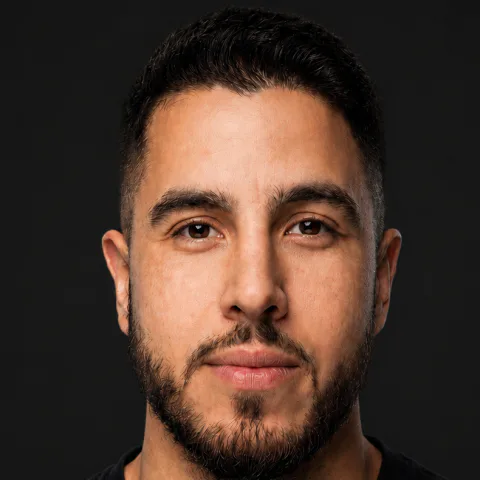
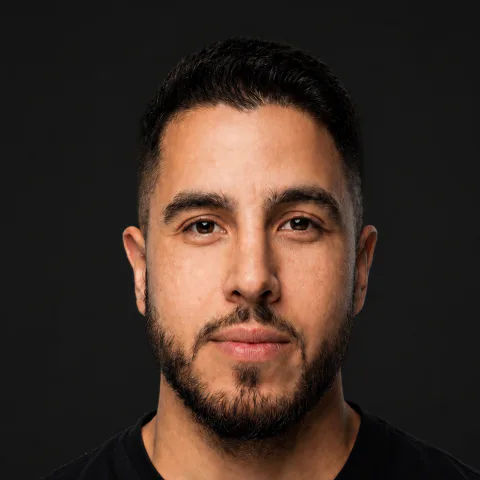
Update profile links and deployment setup

Changed region(s): [[0.1875, 0.0938, 0.8438, 1.0], [0.6875, 0.1562, 0.7188, 0.1875], [0.5625, 0.0938, 0.5938, 0.125]]

diff --git a/src/styles/global.css b/src/styles/global.css
@@ -94,7 +94,7 @@
     margin-inline: auto;
     flex-direction: column;
     gap: clamp(2rem, 7vw, 3rem);
-    padding: var(--gutter);
+    padding: clamp(1.5rem, 6vw, 2rem) var(--gutter) var(--gutter);
   }
 
   .appearance-controls {
@@ -103,6 +103,10 @@
     align-items: center;
     justify-content: flex-end;
     gap: 0.5rem;
+  }
+
+  .appearance-controls[hidden] {
+    display: none;
   }
 
   .theme-toggle {
@@ -140,6 +144,18 @@
     text-align: start;
   }
 
+  .profile-intro {
+    display: grid;
+    inline-size: 100%;
+    grid-template-columns: auto minmax(0, 1fr);
+    align-items: center;
+    gap: clamp(0.875rem, 4vw, 1.25rem);
+  }
+
+  .profile-identity {
+    min-inline-size: 0;
+  }
+
   .profile-portrait {
     inline-size: clamp(6rem, 27vw, 7rem);
     aspect-ratio: 1;
@@ -161,16 +177,23 @@
   }
 
   .profile-header h1 {
-    margin-block-start: 0.4rem;
-    font-size: clamp(1.75rem, 7vw, 2.125rem);
+    font-size: clamp(1.5rem, 7vw, 2.125rem);
     font-weight: 680;
     line-height: 1.05;
     letter-spacing: -0.045em;
   }
 
-  .profile-bio {
+  .profile-headline {
     max-inline-size: 34ch;
-    margin-block-start: 0.75rem;
+    margin-block-start: 0.5rem;
+    color: var(--color-text-muted);
+    font-weight: 400;
+    line-height: 1.45;
+  }
+
+  .profile-bio {
+    inline-size: 100%;
+    margin-block-start: 1rem;
     color: var(--color-text-muted);
   }
 
@@ -179,7 +202,7 @@
   }
 
   .profile-path {
-    margin-block-start: 1rem;
+    margin-block-end: 0.5rem;
     color: var(--color-text-muted);
     font-size: 0.75rem;
   }
@@ -227,6 +250,7 @@
 
   .primary-link {
     display: flex;
+    inline-size: 100%;
     min-block-size: 3.375rem;
     align-items: center;
     justify-content: space-between;
@@ -234,8 +258,11 @@
     border: var(--line-width) solid var(--color-border);
     gap: 0.75rem;
     font-weight: 500;
+    text-align: start;
     text-decoration: none;
     text-transform: lowercase;
+    background: transparent;
+    cursor: pointer;
     transition:
       color 140ms ease,
       background-color 140ms ease,
@@ -284,6 +311,56 @@
     font-size: 0.6875rem;
     text-align: start;
   }
+
+  .unavailable-dialog {
+    inline-size: min(calc(100% - 2rem), 28rem);
+    padding: 0;
+    border: var(--line-width) solid var(--color-border);
+    border-radius: 0;
+    color: var(--color-text);
+    background: var(--color-background);
+  }
+
+  .unavailable-dialog::backdrop {
+    background: rgb(0 0 0 / 72%);
+  }
+
+  .unavailable-dialog__content {
+    display: flex;
+    flex-direction: column;
+    align-items: flex-start;
+    gap: 1rem;
+    padding: clamp(1.25rem, 5vw, 2rem);
+  }
+
+  .unavailable-dialog__status {
+    color: var(--color-text-muted);
+    font-size: 0.6875rem;
+  }
+
+  .unavailable-dialog h2 {
+    font-size: clamp(1.375rem, 6vw, 1.75rem);
+    line-height: 1.1;
+    letter-spacing: -0.035em;
+  }
+
+  .unavailable-dialog__content > p:not(.unavailable-dialog__status) {
+    color: var(--color-text-muted);
+  }
+
+  .unavailable-dialog__close {
+    min-block-size: 2.75rem;
+    padding-inline: 1rem;
+    border: var(--line-width) solid var(--color-text);
+    color: var(--color-background);
+    background: var(--color-text);
+    cursor: pointer;
+  }
+
+  .unavailable-dialog__close:hover {
+    color: var(--color-text);
+    background: var(--color-background);
+  }
 }
 
 @layer utilities {
@@ -302,7 +379,7 @@
 
 @media (min-width: 48rem) {
   .profile-page {
-    padding: 2rem 1.5rem;
+    padding: 2.5rem 1.5rem 2rem;
     border-inline: var(--line-width) solid var(--color-border);
   }
 }

diff --git a/src/config/profile.ts b/src/config/profile.ts
@@ -25,11 +25,12 @@ export interface SocialLink {
 export interface PrimaryLink {
   id: string;
   label: string;
-  href: string;
+  href?: string;
 }
 
 export interface Profile {
   name: string;
+  headline: string;
   email: string;
   bio: string;
   image: ProfileImage;
@@ -37,15 +38,16 @@ export interface Profile {
   links: readonly PrimaryLink[];
 }
 
-const placeholderEmail = 'alfredjiali@gmail.com';
+const email = 'alfredjiali@gmail.com';
 const linkedinIcon = {
   path: 'M20.447 20.452h-3.554v-5.569c0-1.328-.027-3.037-1.852-3.037-1.853 0-2.136 1.445-2.136 2.941v5.665H9.351V9h3.414v1.561h.048c.477-.9 1.637-1.85 3.37-1.85 3.601 0 4.267 2.37 4.267 5.455v6.286zM5.337 7.433a2.062 2.062 0 1 1 0-4.124 2.062 2.062 0 0 1 0 4.124zM3.555 20.452h3.555V9H3.555z',
 };
 
 export const profile: Profile = {
   name: 'Ali Alfredji',
-  email: placeholderEmail,
-  bio: 'A short introduction about your work, interests, and current focus.',
+  headline: 'Software Engineer, Writer, and Creator',
+  email: email,
+  bio: 'Dad. 33 years. 10+ years in tech. 15k+ followers across social media. I help you & your business become more efficient with AI.',
   image: {
     src: profilePic,
     alt: 'Ali Alfredji headshot',
@@ -96,24 +98,26 @@ export const profile: Profile = {
   ],
   links: [
     {
+      id: 'newsletter',
+      label: 'Subscribe to my newsletter',
+      href: 'https://alialf.substack.com/subscribe',
+    },
+    {
       id: 'portfolio',
       label: 'Portfolio',
-      href: 'https://example.com/portfolio',
     },
     {
       id: 'current-project',
       label: 'Current project',
-      href: 'https://example.com/project',
     },
     {
       id: 'notes',
       label: 'Notes and writing',
-      href: 'https://example.com/notes',
     },
     {
       id: 'contact',
       label: 'Email me',
-      href: `mailto:${placeholderEmail}`,
+      href: `mailto:${email}`,
     },
   ],
 };

diff --git a/README.md b/README.md
@@ -69,7 +69,14 @@ See [docs/images.md](docs/images.md) for the complete image contract.
 
 ### GitHub Pages
 
-The included Pages workflow calculates the repository subpath automatically. In **Settings → Pages**, choose **GitHub Actions** as the source. For a custom domain, add repository variables `SITE_URL` and `BASE_PATH=/`.
+The included Pages workflow publishes `dist/` after changes land on `main` and builds canonical URLs for `https://alfredji.com`.
+
+One-time repository and DNS setup:
+
+1. In **Settings → Pages**, choose **GitHub Actions** as the source and set the custom domain to `alfredji.com`.
+2. At the DNS provider, point the apex domain to GitHub Pages with `A` records for `185.199.108.153`, `185.199.109.153`, `185.199.110.153`, and `185.199.111.153`.
+3. Add a `www` `CNAME` record pointing to `alialfredji.github.io` so GitHub can redirect `www.alfredji.com` to the apex domain.
+4. After DNS propagation, enable **Enforce HTTPS** in the repository's Pages settings.
 
 ## Project commands
 
